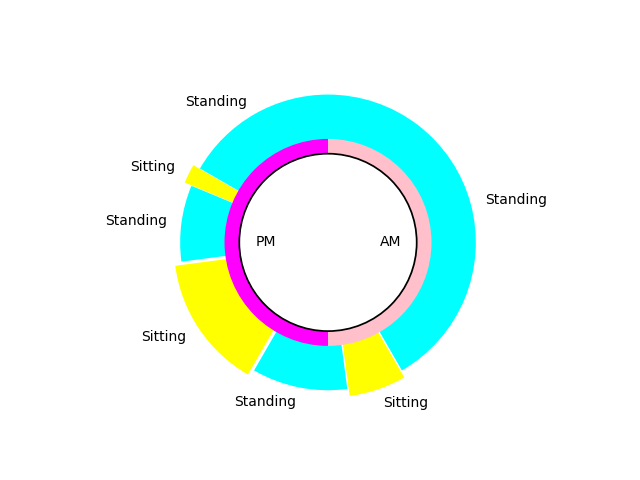
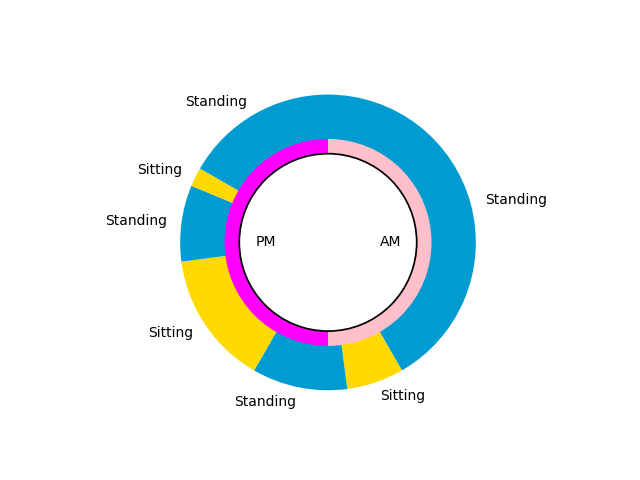
Ventilation method create

Changed region(s): [[0.1875, 0.1875, 0.75, 0.8438]]

diff --git a/src/SlackAPI/SlackAPI_class.py b/src/SlackAPI/SlackAPI_class.py
@@ -57,19 +57,19 @@ class SlackAPI:
         except IndexError:
             print("エラー！引数に不正があります")
         
-    def Visualization(self,image,sensor_type,text):
+    def Visualization_send(self,image_path,text):
         try:
-            print(sensor_type + "'s notification send!")
-            
+            files = {'file': open(image_path, 'rb')}
+            print("visualization send!")
             #画像ファイルを送信
             url = "https://slack.com/api/files.upload"
             data = {
                 "token": self.token,
                 "channels": self.channels,
                 "title": "test file",
-                "initial_comment": sensor_type + "_sensor is warning!!\n" + text
+                "initial_comment": text
               }
-            requests.post(url, data=data, files=image)
+            requests.post(url, data=data, files=files)
         except SlackApiError as e:
         # You will get a SlackApiError if "ok" is False
             assert e.response["error"]
@@ -93,6 +93,7 @@ class SlackAPI:
                 colorlist[w,:] = col2[:]
                 label_list.append(st[1])
         #create Graph
+        plt.figure()
         plt.pie(array[:,0], labels=label_list,colors = colorlist,startangle=90,counterclock=False)
         label_time = ["AM","PM"]
         x_time = np.array([100 , 100])
@@ -101,6 +102,46 @@ class SlackAPI:
         centre_circle = plt.Circle((0,0),0.6,color='black', fc='white',linewidth=1.25)
         fig = plt.gcf()
         fig.gca().add_artist(centre_circle)
-        print("Graph created!")
+        print("Sitting Graph created!")
         #save graph
-        fig.savefig("Sitting_Graph_test.png")
+        file_path = "Sitting_Graph.png"
+        fig.savefig(file_path)
+        message = "昨日1日のあなたの座っていた時間の記録のグラフです！"
+        self.Visualization_send(file_path,message)
+
+    def Visualization_Ventilation(self,array):
+        size = array.shape[0]
+        #green
+        col1 = np.array([176/255,255/255,5/255])
+        #yellow
+        col2 = np.array([23/255,152/255,251/255])
+        #label
+        st = ["Close","Open"]
+        colorlist = np.zeros((size,3),np.float64)
+        label_list = []
+        #create label and color list
+        for w in range(size):
+            if array[w,1] == 0:
+                colorlist[w,:] = col1[:]
+                label_list.append(st[0])
+            else:
+                colorlist[w,:] = col2[:]
+                label_list.append(st[1])
+        #create Graph
+        plt.figure()
+        plt.pie(array[:,0], labels=label_list,colors = colorlist,startangle=90,counterclock=False)
+        label_time = ["AM","PM"]
+        x_time = np.array([100 , 100])
+        colorlist_time = ["pink","magenta"]
+        plt.pie(x_time, labels=label_time,colors = colorlist_time,startangle=90,counterclock=False,radius = 0.7,labeldistance=0.5)
+        centre_circle = plt.Circle((0,0),0.6,color='black', fc='white',linewidth=1.25)
+        fig = plt.gcf()
+        fig.gca().add_artist(centre_circle)
+        print("Ventilation Graph created!")
+        #save graph
+        file_path = "Ventilation_Graph.png"
+        fig.savefig(file_path)
+        message = "昨日1日のあなたの家の窓の開閉の記録のグラフです！"
+        self.Visualization_send(file_path,message)
+
+        

diff --git a/src/SlackAPI/SlackAPI_class_test.py b/src/SlackAPI/SlackAPI_class_test.py
@@ -31,3 +31,4 @@ print(x.shape)
 print(x[1,1])
 
 Slack.Visualization_Sitting(x)
+Slack.Visualization_Ventilation(x)
